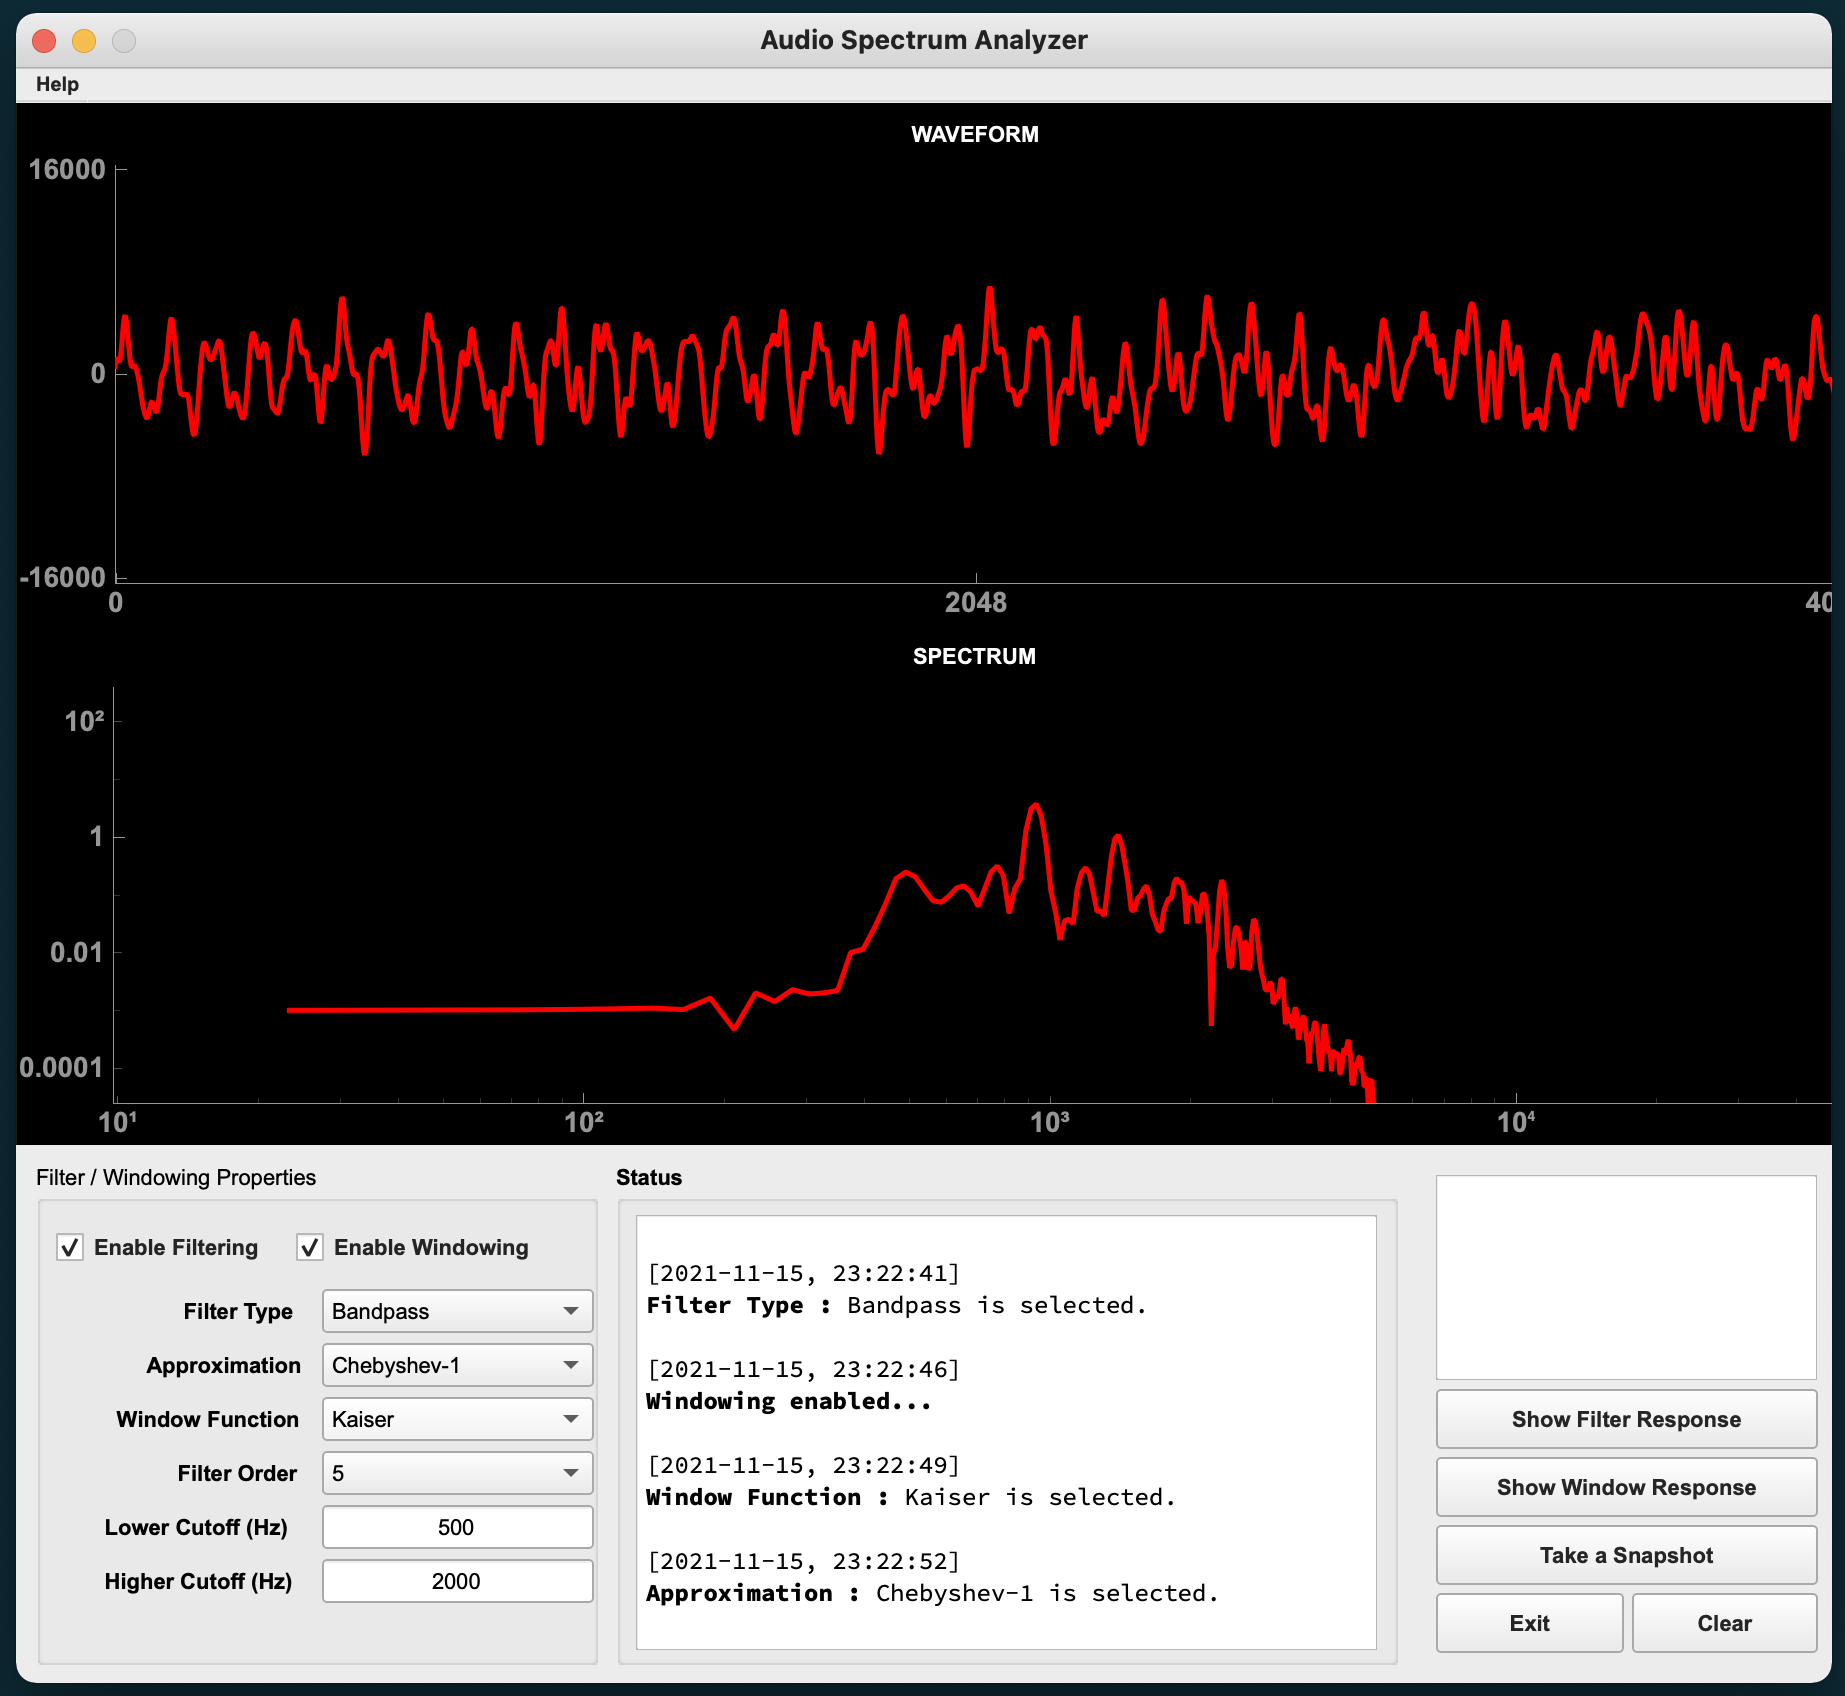
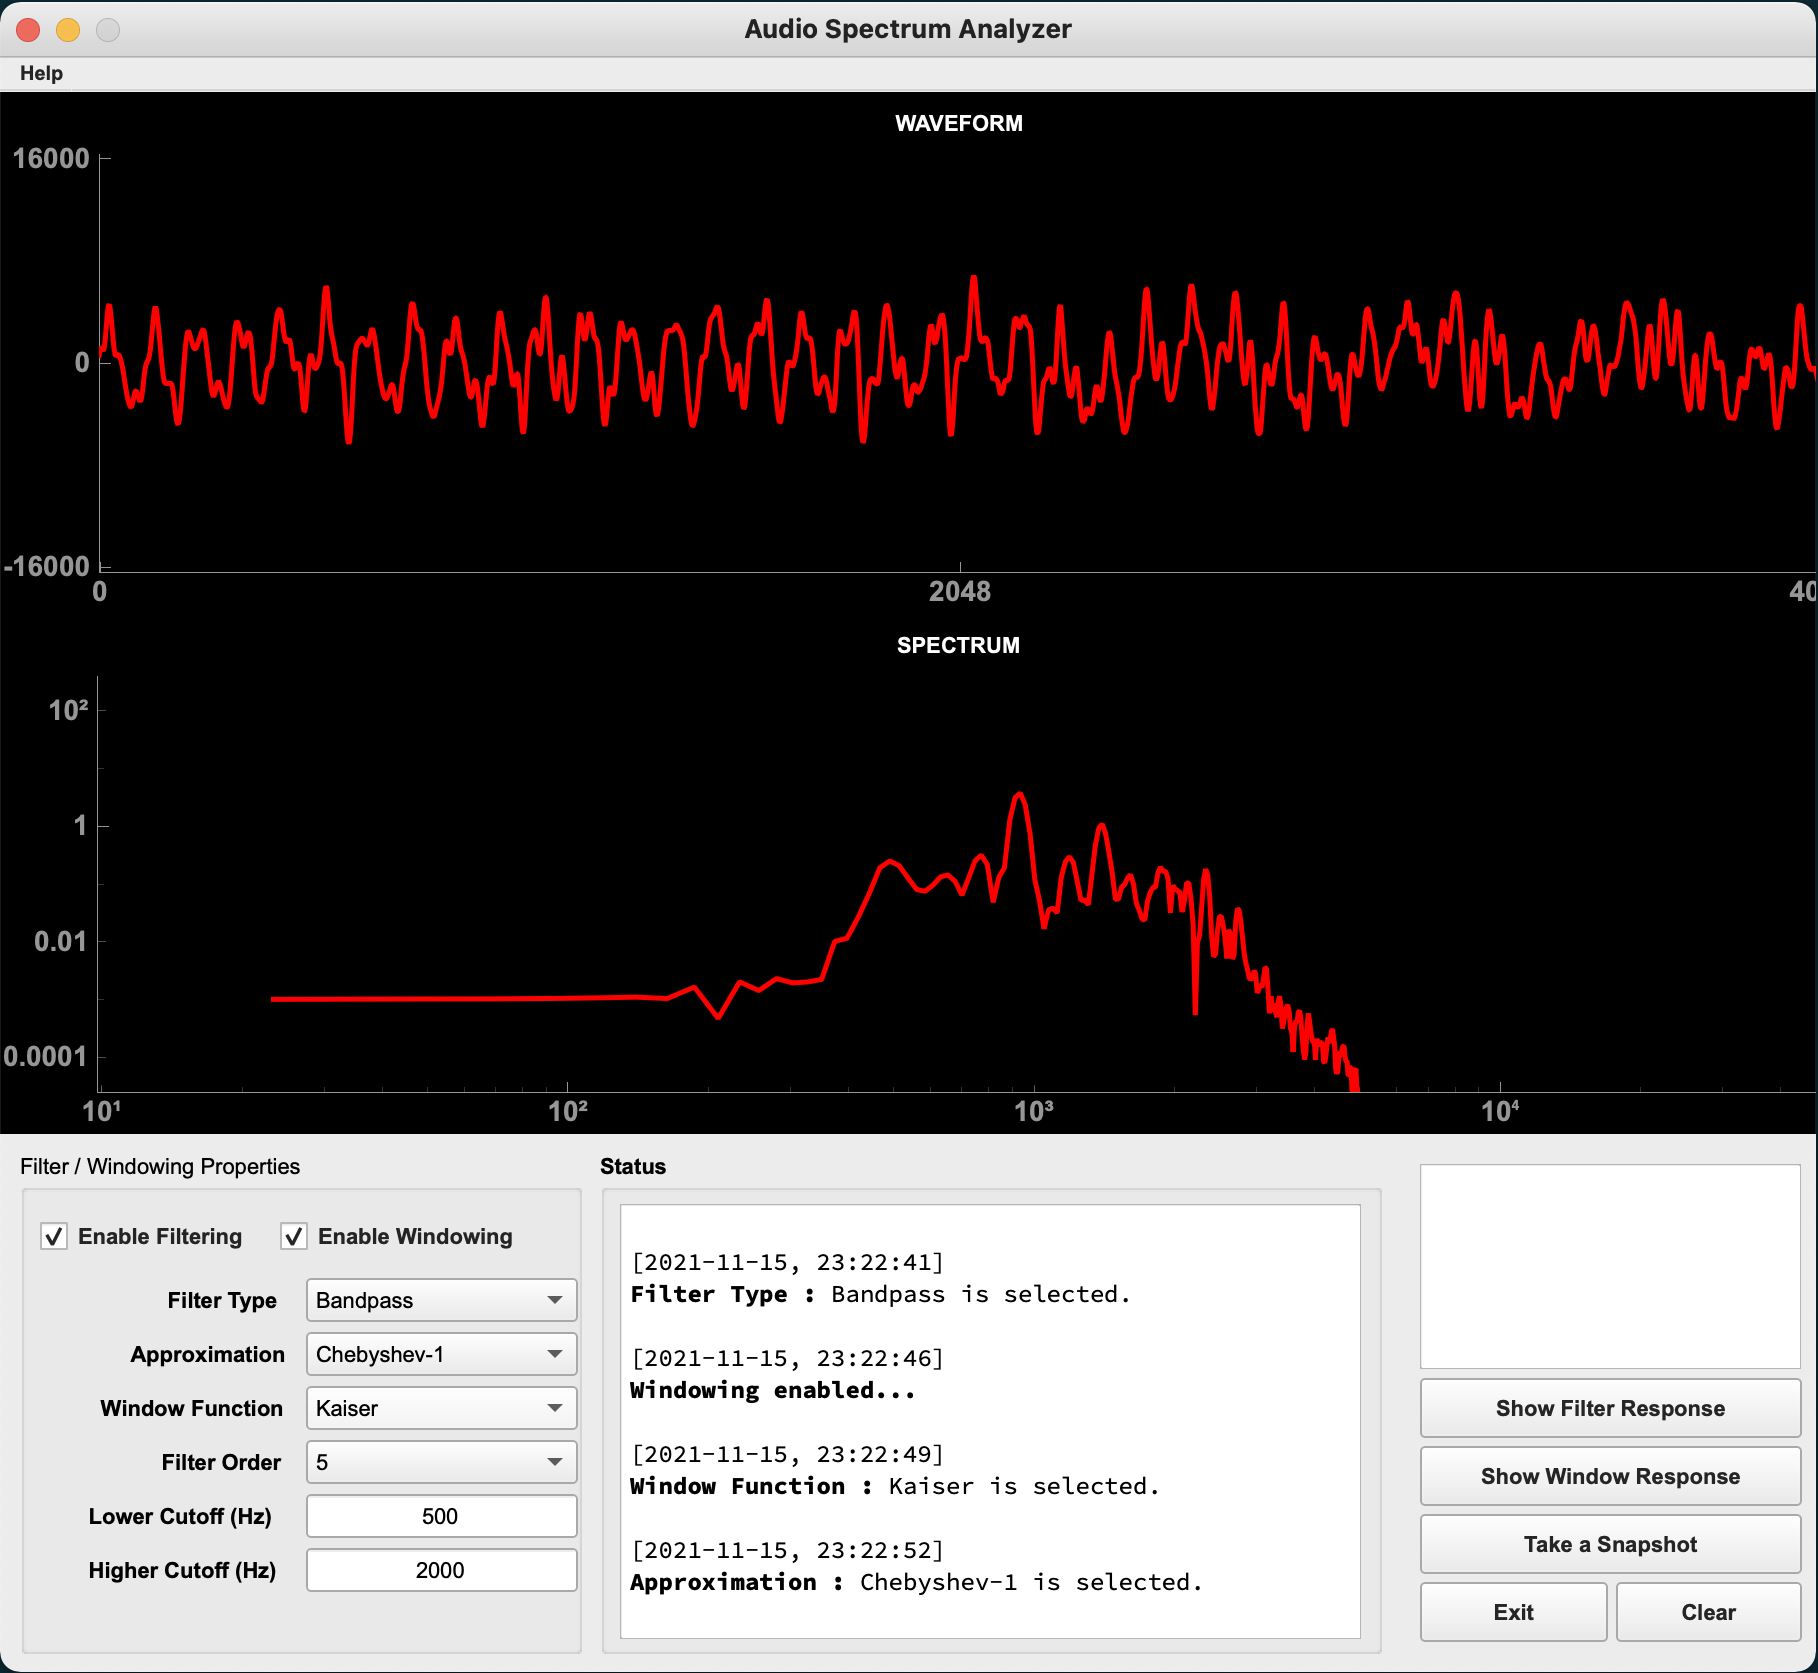
Added example image.

diff --git a/README.md b/README.md
@@ -1,4 +1,4 @@
 ## Audio Spectrum Analyzer
 This software is an easy-to-use, lightweight and real-time audio signal analyzer that shows time-domain raw signal and its frequency spectrum.
 
-![screenshot](/assets/example.png =300x300)
+![screenshot](/assets/example.png)
